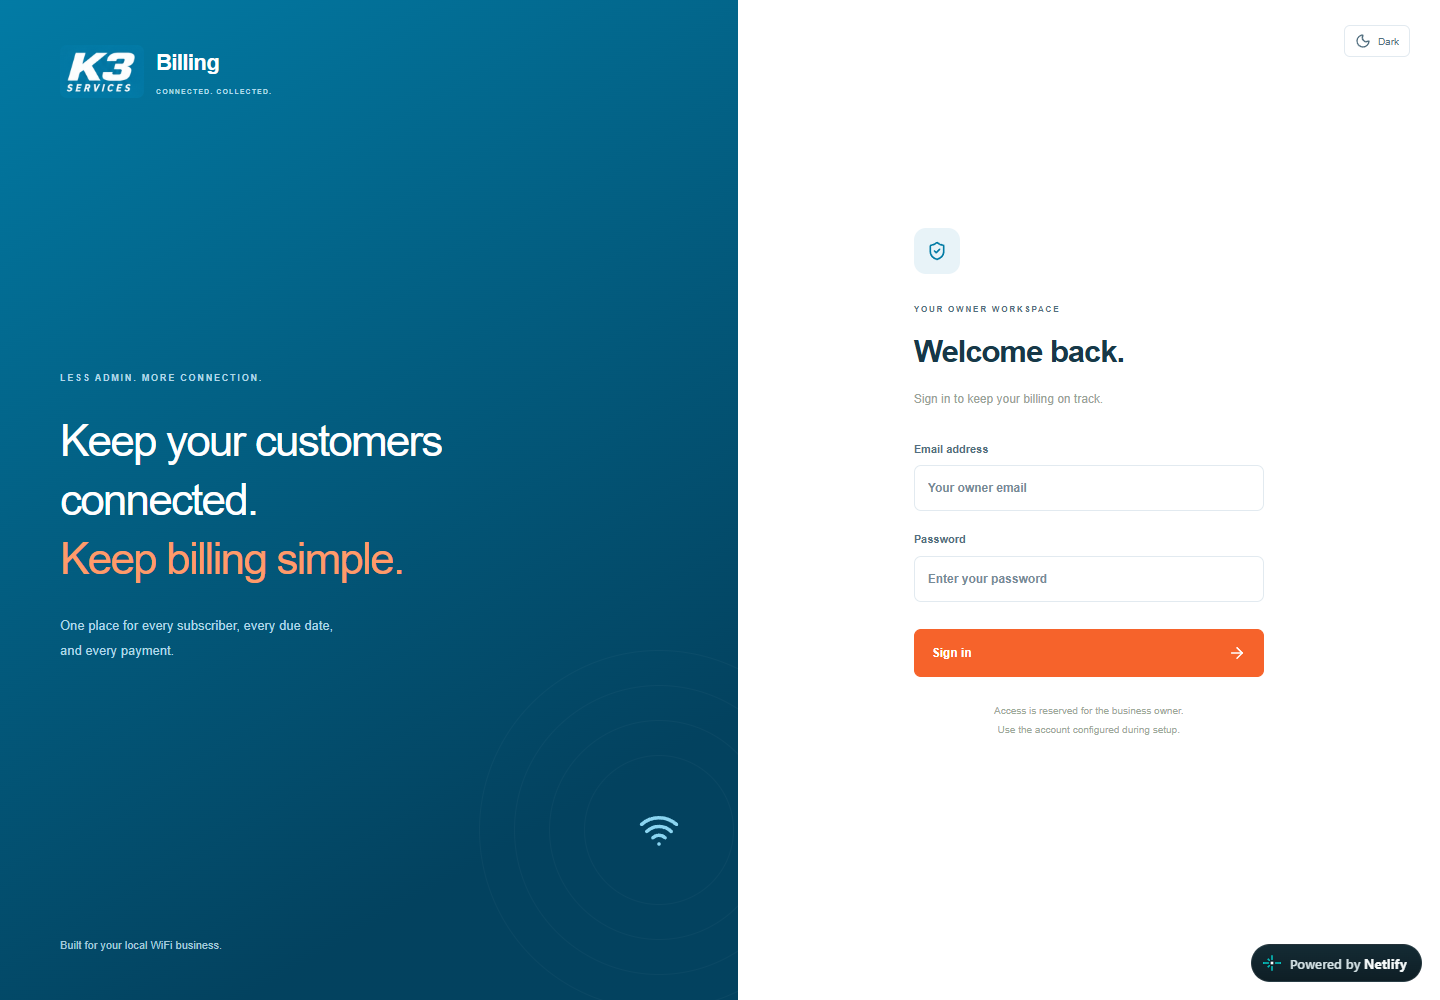
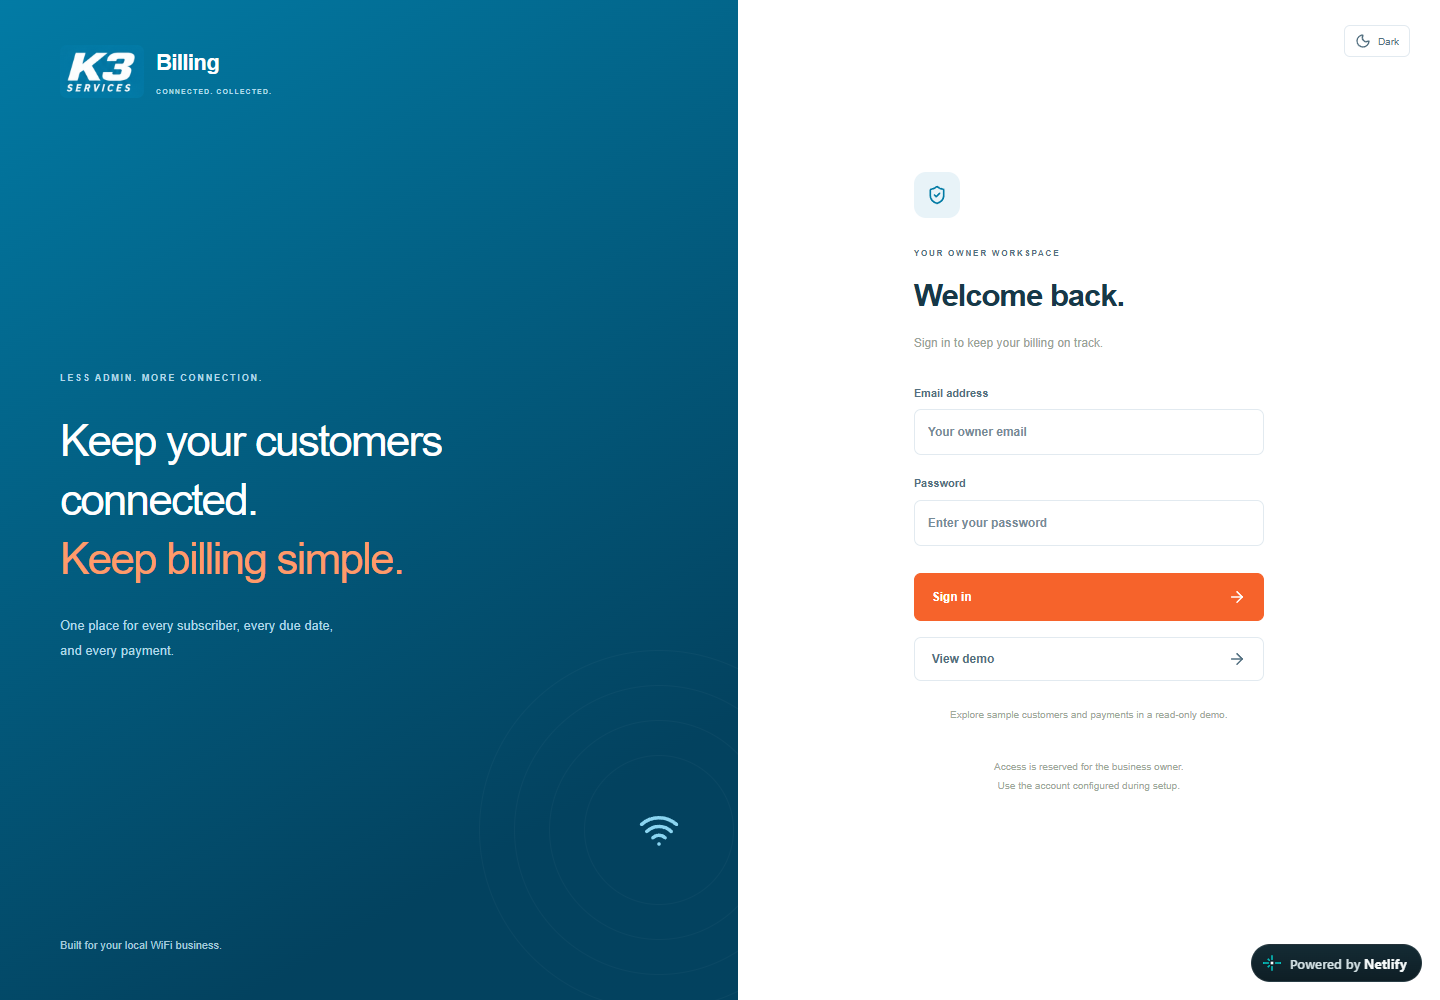
Show K3 Billing public demo dashboard and update access details

Changed region(s): [[0.625, 0.341, 0.875, 0.806], [0.625, 0.248, 0.7812, 0.31], [0.625, 0.186, 0.6562, 0.217]]

diff --git a/lib/chat.ts b/lib/chat.ts
@@ -1,19 +1,19 @@
 export const CHAT_LIMIT = 600;
 export type ChatMessage = { role: "user" | "model"; content: string };
-export const portfolioFacts = `Kean has frontend and e-commerce experience with BigCommerce storefronts, Figma handoffs, support operations, SLA tickets and AWS S3 workflows. He is extending that foundation with React, Next.js, .NET and PostgreSQL. BoardSync is an in-progress Kanban project at https://boardsync-web.netlify.app/ with workspace screenshots; its SignalR/Redis real-time direction is not independently verified. StoreCraft is an experimental commerce MVP at https://storecraft-demo.netlify.app/ with products, orders, shipping settings, themes and a visual storefront builder. The public browser sandbox uses fictional data, local browser saves and simulated payments. Its repository includes a separate Supabase/.NET/PostgreSQL merchant path; the hosted authenticated journey has not been independently verified. No live payments or connected OMS are claimed. OrderPilot is a seeded Next.js/ASP.NET Core/SQLite fulfillment prototype at https://orderpilot-demo.onrender.com/, not yet connected to StoreCraft. K3 Billing Tracker at https://k3-billing-tracker.netlify.app/ was built for a friend's WiFi business to track subscribers, renewals and recorded payments; it is owner-only and does not charge customers. No measured business outcomes are claimed. The portfolio combines guided learning projects with a focused business tool. Build stories are available in the blog. Never invent customers, metrics, revenue, rates or exact availability. Contact Kean at keanombion@gmail.com or through the contact section.`;
+export const portfolioFacts = `Kean has frontend and e-commerce experience with BigCommerce storefronts, Figma handoffs, support operations, SLA tickets and AWS S3 workflows. He is extending that foundation with React, Next.js, .NET and PostgreSQL. BoardSync is an in-progress Kanban project at https://boardsync-web.netlify.app/ with workspace screenshots; its SignalR/Redis real-time direction is not independently verified. StoreCraft is an experimental commerce MVP at https://storecraft-demo.netlify.app/ with products, orders, shipping settings, themes and a visual storefront builder. The public browser sandbox uses fictional data, local browser saves and simulated payments. Its repository includes a separate Supabase/.NET/PostgreSQL merchant path; the hosted authenticated journey has not been independently verified. No live payments or connected OMS are claimed. OrderPilot is a seeded Next.js/ASP.NET Core/SQLite fulfillment prototype at https://orderpilot-demo.onrender.com/, not yet connected to StoreCraft. K3 Billing Tracker at https://k3-billing-tracker.netlify.app/ was built for a friend's WiFi business to track subscribers, renewals and recorded payments; its public read-only demo uses sample data, owner records remain private, and it does not charge customers. No measured business outcomes are claimed. The portfolio combines guided learning projects with a focused business tool. Build stories are available in the blog. Never invent customers, metrics, revenue, rates or exact availability. Contact Kean at keanombion@gmail.com or through the contact section.`;
 
 export function faqReply(question: string): string {
   const q = question.toLowerCase();
   if (/\b(orderpilot|oms|fulfillment|picking|packing)\b/.test(q))
     return "OrderPilot is Kean's seeded order-management prototype: location assignment, picking, packing, shipping, and exceptions. It uses Next.js, ASP.NET Core, and SQLite. Its public demo has sample credentials; a live StoreCraft connection remains future work. See the project page and build story.";
   if (/\b(billing|k3|subscriber)\b/.test(q))
-    return "Kean built K3 Billing Tracker for a friend's WiFi business to help track subscribers, renewals, and recorded payments. It uses Next.js, .NET, and PostgreSQL. The hosted workspace is owner-only; the portfolio includes a screenshot and the story behind it.";
+    return "Kean built K3 Billing Tracker for a friend's WiFi business to help track subscribers, renewals, and recorded payments. It uses Next.js, .NET, and PostgreSQL. Choose View demo on its sign-in page to explore sample customers and payments in a read-only workspace. Owner records stay private. The portfolio includes screenshots and its build story.";
   if (/\b(storecraft|store|storefront|commerce|shopify|shipping|payment|stripe|builder)\b/.test(q))
     return "StoreCraft connects Kean's e-commerce experience to a merchant dashboard, products, orders, shipping settings and a visual storefront builder. Its public browser sandbox uses fictional data and simulated payments; changes stay on your device. Open its project page for the demo and build story.";
   if (/\b(board|boardsync|kanban)\b/.test(q))
     return "BoardSync is Kean's in-progress collaborative Kanban project. Its project page includes a sign-in preview, workspace screenshots and a build story. Real-time behavior remains something to verify.";
   if (/\b(project|projects|invoice)\b/.test(q))
-    return "Kean's projects include StoreCraft for storefront building, OrderPilot for fulfillment, BoardSync for team tasks, and K3 Billing Tracker for a friend's business. Each has a project page and build story. The billing workspace requires owner access; OrderPilot is not yet connected to StoreCraft.";
+    return "Kean's projects include StoreCraft for storefront building, OrderPilot for fulfillment, BoardSync for team tasks, and K3 Billing Tracker for a friend's business. Each has a project page and build story. The billing demo is read-only with sample data; OrderPilot is not yet connected to StoreCraft.";
   if (
     /\b(stack|tech|technologies|react|backend|frontend|skills|skill|language)\b/.test(
       q,

diff --git a/lib/projects.ts b/lib/projects.ts
@@ -35,16 +35,19 @@ export const projects: Project[] = [
   {
     slug: "k3-billing-tracker", title: "K3 Billing Tracker", subtitle: "A practical tool for a friend's WiFi business",
     summary: "Built around a friend's struggle to keep up with payment tracking: a single-owner workspace for subscribers, renewal dates, recorded payments, and outstanding bills.",
-    role: "Full-Stack · Business Tool", status: "Owner-only application",
-    demoUrl: "https://k3-billing-tracker.netlify.app/", demoLabel: "Open owner sign-in", storySlug: "k3-billing-tracker-built-for-a-friend",
-    screenshots: [{ src: "/projects/k3-billing-preview.png", alt: "K3 Billing Tracker sign-in page for the WiFi business owner", caption: "The hosted owner sign-in. Subscriber and payment records remain behind authentication." }],
+    role: "Full-Stack · Business Tool", status: "Business tool · Public demo",
+    demoUrl: "https://k3-billing-tracker.netlify.app/", storySlug: "k3-billing-tracker-built-for-a-friend",
+    screenshots: [
+      { src: "/projects/k3-billing-dashboard.png", alt: "K3 Billing Tracker read-only demo dashboard with sample renewal counts, monthly collections, due accounts, and recent payments", caption: "The public read-only dashboard uses sample customers and payments. These figures are demo data, not the business's results." },
+      { src: "/projects/k3-billing-preview.png", alt: "K3 Billing Tracker sign-in page with a View demo button", caption: "Visitors can choose View demo without signing into the private owner workspace." },
+    ],
     stack: ["Next.js", "TypeScript", ".NET", "PostgreSQL"],
     sections: [
       { id: "problem", title: "Starting with someone else's problem", body: "A friend running a local WiFi business was struggling to keep up with payment tracking. I built K3 Billing Tracker around that specific need: make it easier to see who is due, record a payment, and find its history. The scope follows the owner's daily work rather than trying to become a general accounting platform." },
       { id: "workflow", title: "Subscribers, renewals, and payments together", body: "The app brings customer search, plan selection, daily/weekly/monthly renewal schedules, and payment history into one owner workspace. The dashboard separates collected, expected, and outstanding amounts, alongside due and upcoming renewals. Customer deactivation preserves history instead of removing earlier payments." },
       { id: "decisions", title: "Small details that affect trust", body: "A payment belongs to an exact renewal due date, with PostgreSQL enforcing one payment per customer per renewal. Monthly dates at the end of a month adapt to shorter months. Outstanding bills and collected payments are calculated separately because a recorded payment can differ from the plan fee. These decisions matter more than a polished total on its own." },
       { id: "mobile", title: "Designed for the owner's day", body: "The interface includes mobile navigation, touch-sized payment actions, renewal cards, full-screen forms, and light/dark themes. A Next.js frontend connects to a .NET API and PostgreSQL. Optional owner email summaries are implemented, but their delivery depends on provider configuration and a running backend." },
-      { id: "access", title: "A business workspace, not an open sandbox", body: "The hosted link opens the owner's sign-in page. There is no public registration or shared demo account, and the portfolio screenshot deliberately stops before subscriber records. The app records payments; it does not charge customers. Partial balances, refunds, historical subscription snapshots, and a full accounting ledger are outside the current scope. No measured time savings or revenue impact are claimed." },
+      { id: "access", title: "Explore the workflow with sample data", body: "Choose View demo on the sign-in page to explore a read-only workspace with sample customers and payments. You can inspect the billing overview, customer directory, and payment history without owner credentials. Actual owner records remain private. The app records payments; it does not charge customers. Partial balances, refunds, historical subscription snapshots, and a full accounting ledger are outside the current scope. Demo totals are fictional, and no measured time savings or revenue impact are claimed." },
     ],
   },
   {

diff --git a/lib/project-posts.ts b/lib/project-posts.ts
@@ -23,7 +23,7 @@ export const projectPosts: Post[] = [
       { id: "person", title: "This one started with a person", paragraphs: ["A friend running a local WiFi business was struggling to keep up with payment tracking. That gave this project a different starting point from my portfolio experiments. There was someone with a recurring task to support: keep track of subscribers, know when their renewals are due, and record what they have paid.", "I built K3 Billing Tracker around that workflow. The aim was a useful owner workspace with a manageable scope, rather than a broad billing platform full of features the business did not need."] },
       { id: "daily-work", title: "Turn a recurring task into a clear workflow", paragraphs: ["Customers, plans, renewal dates, and payment history live together. The owner can search for a subscriber, inspect due renewals, record a payment with its date and reference, and find it later. The dashboard brings together due accounts, upcoming renewals, and collected, expected, and outstanding amounts.", "Daily, weekly, and monthly plans need different schedules. A weekly customer can have several payments in one month, so the payment belongs to a renewal date rather than just a month label. Monthly dates at the end of a month also need a sensible result when the next month is shorter."] },
       { id: "trust", title: "Trust lives in the details", paragraphs: ["PostgreSQL enforces one payment per customer per renewal date. Deactivating a customer preserves payment history. Collected money and unpaid scheduled bills are different calculations: a payment amount may differ from the plan fee, and earlier payments remain meaningful even after a customer is deactivated.", "The current app records payments; it does not collect funds or track partial balances. Refunds, subscription-history snapshots, and a full accounting ledger remain outside its scope. Being able to explain those boundaries is part of owning the application."] },
-      { id: "owner", title: "Design for where the work happens", paragraphs: ["A business owner should be able to use the tool on a phone. Mobile navigation, readable inputs, touch-sized payment actions, and renewal cards help the workflow fit a smaller screen. Light and dark themes share the business's visual identity.", "Next.js connects the interface to a .NET API and PostgreSQL. Optional email summaries are part of the implementation, with actual delivery dependent on hosting and provider configuration. The hosted workspace is owner-only; I do not expose customer records or publish shared credentials to make the portfolio easier to browse."] },
+      { id: "owner", title: "Design for where the work happens", paragraphs: ["A business owner should be able to use the tool on a phone. Mobile navigation, readable inputs, touch-sized payment actions, and renewal cards help the workflow fit a smaller screen. Light and dark themes share the business's visual identity.", "Next.js connects the interface to a .NET API and PostgreSQL. Optional email summaries are part of the implementation, with actual delivery dependent on hosting and provider configuration. Visitors can now choose View demo to explore a read-only workspace with sample customers, renewals, and payment history. Actual owner records remain private, and the displayed demo totals do not represent the business's results."] },
       { id: "lesson", title: "What this adds to my portfolio", paragraphs: ["This project shows the kind of work I want to do more of: listen to a specific problem, choose the rules that matter, and build an interface around someone's routine. I cannot claim measured time savings or a business result yet. I can show the application, explain its decisions, and keep improving it through feedback.", "Alongside StoreCraft and OrderPilot, the billing tracker connects my interest in systems to an everyday business need. The common thread is helping people understand what needs their attention and take the next action with confidence."] },
     ],
   },

diff --git a/content/projects.md b/content/projects.md
@@ -38,10 +38,11 @@ A seeded OMS prototype for location assignment, picking, packing, shipping, and 
 ## K3 Billing Tracker - a friend's business workflow
 
 Built for a friend's WiFi business to address payment-tracking struggles.
-- Hosted owner sign-in: https://k3-billing-tracker.netlify.app/
+- Preview: https://k3-billing-tracker.netlify.app/ — choose View demo.
 - Stack: Next.js, TypeScript, .NET, PostgreSQL.
 - Story: /blog/k3-billing-tracker-built-for-a-friend
 - Subscribers, daily/weekly/monthly renewals, payment history, and mobile layouts.
-- Owner-only access. Records payments without charging customers.
+- Public read-only demo uses sample customers and payments; owner records stay private.
+- Records payments without charging customers.
 
 No live payment processing, measured commercial outcomes, or connected OMS are claimed.

diff --git a/content/about.md b/content/about.md
@@ -23,4 +23,5 @@ Read the blog for the stories and decisions behind these projects.
 
 - OrderPilot explores fulfillment after checkout, with a seeded standalone OMS demo.
 - K3 Billing Tracker was built for a friend's WiFi business to organize subscribers,
-  renewal dates, and payment records. Its hosted workspace is owner-only.
+  renewal dates, and payment records. A read-only public demo uses sample data;
+  the owner's business records remain private.
